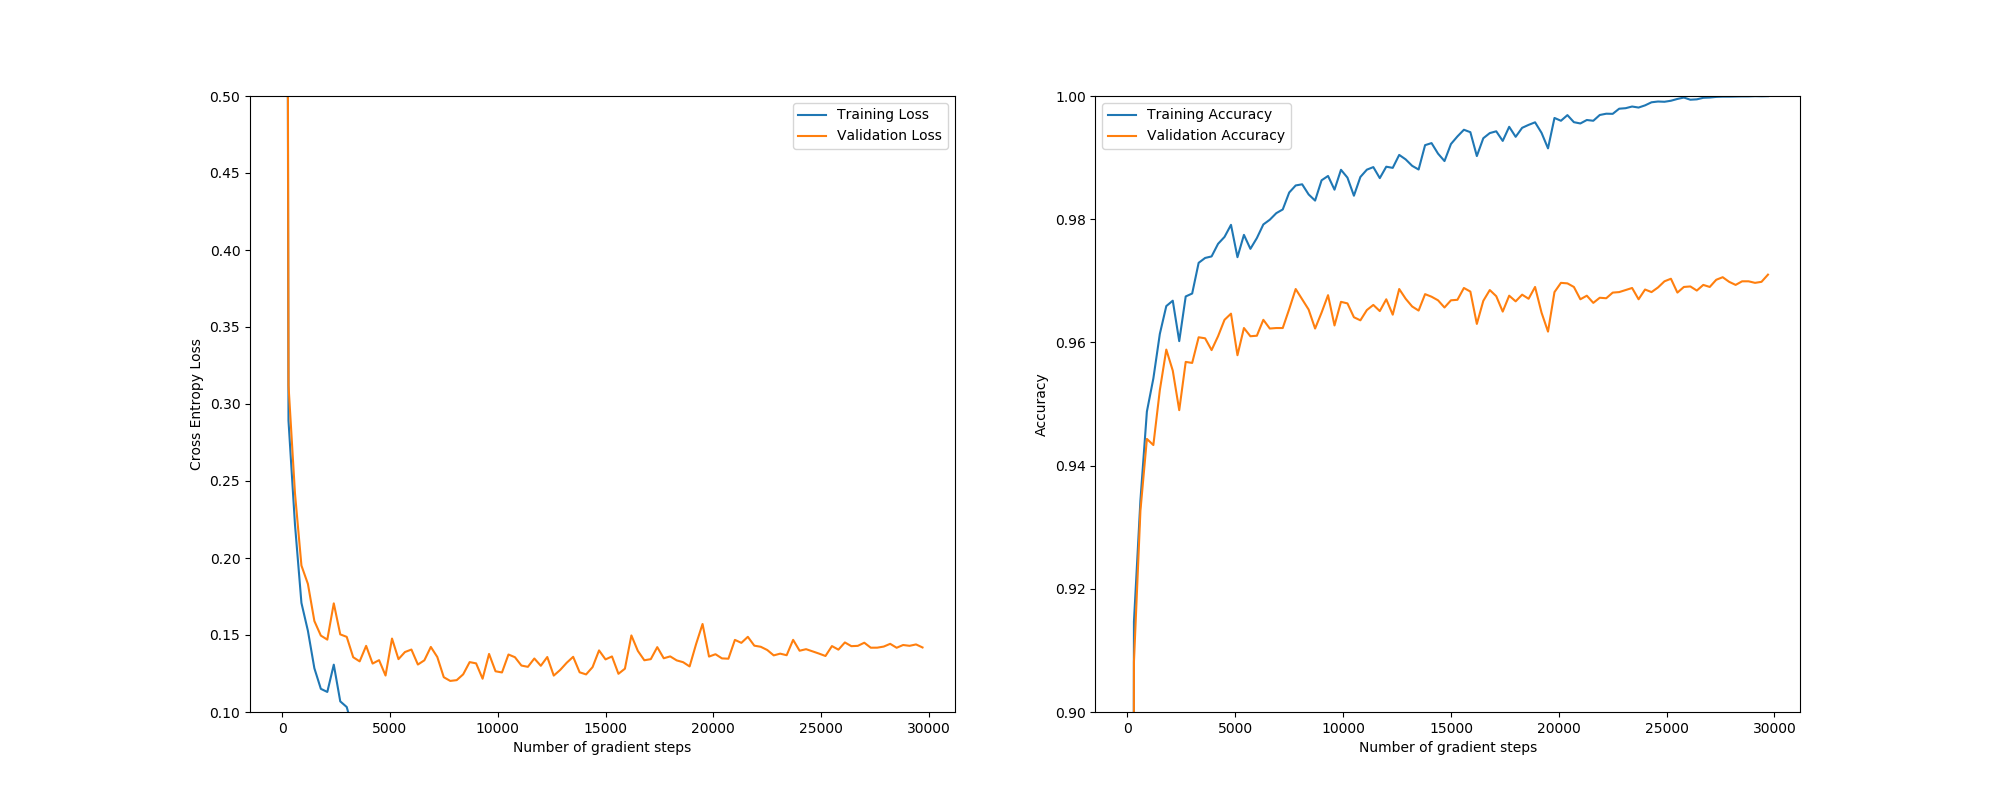
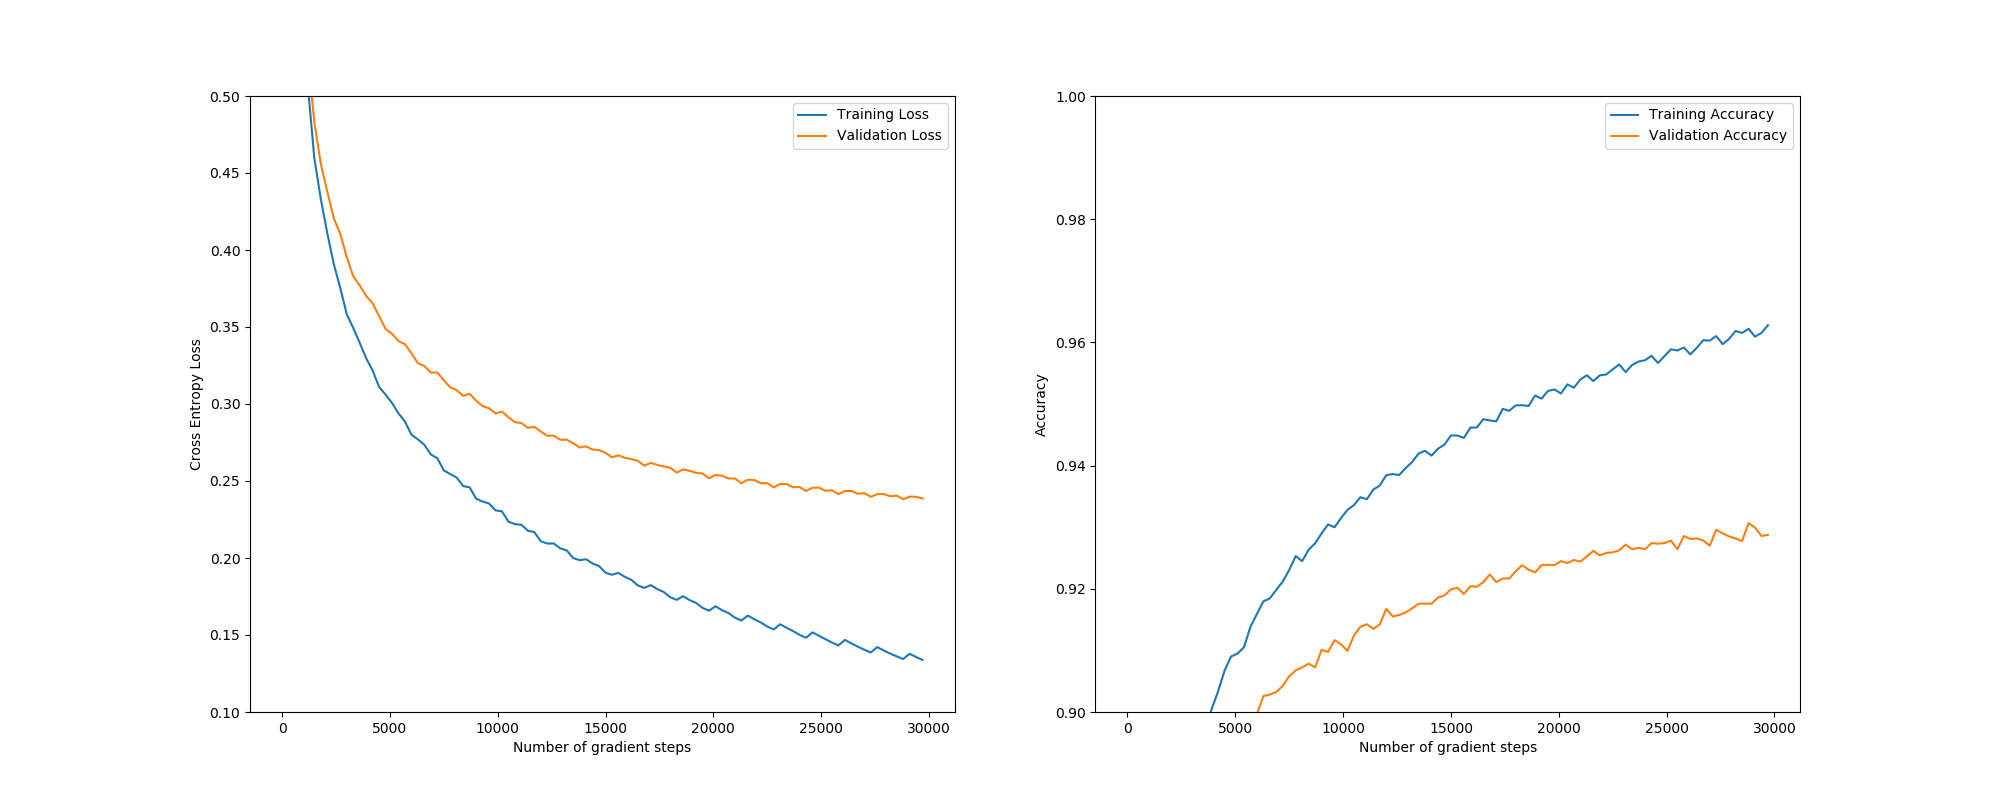
no real changes

diff --git a/assignment2/task2.py b/assignment2/task2.py
@@ -180,7 +180,7 @@ if __name__ == "__main__":
     use_improved_sigmoid = False
     use_improved_weight_init = False
     use_momentum = False
-    learning_rate = .02
+    #learning_rate = .02
 
     model = SoftmaxModel(
         neurons_per_layer,
